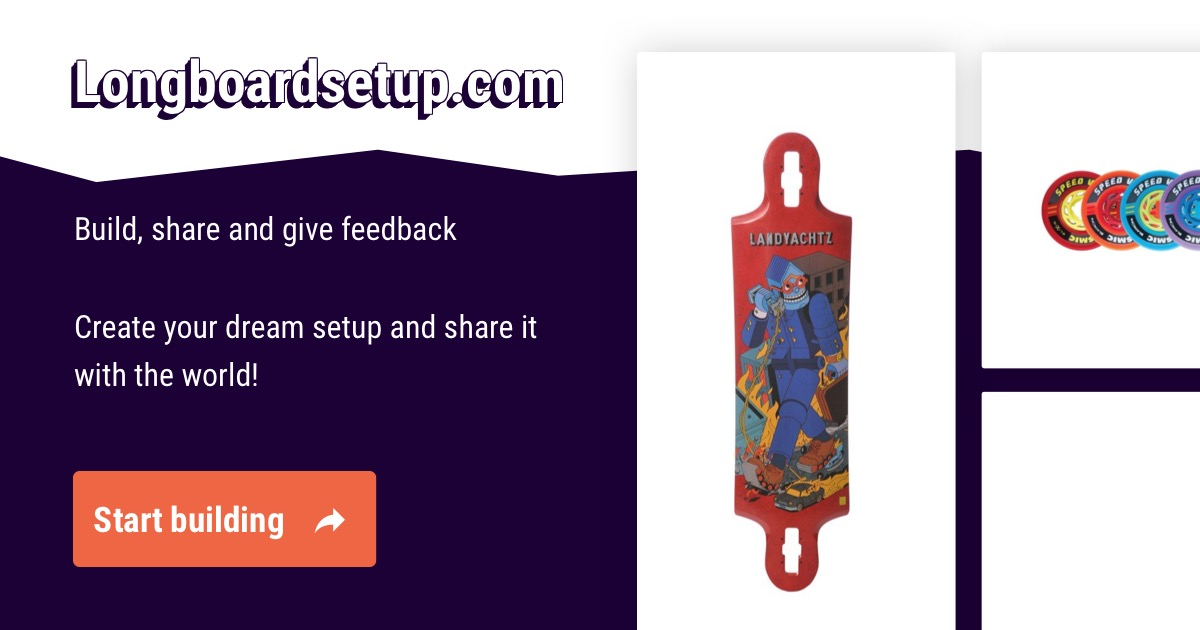
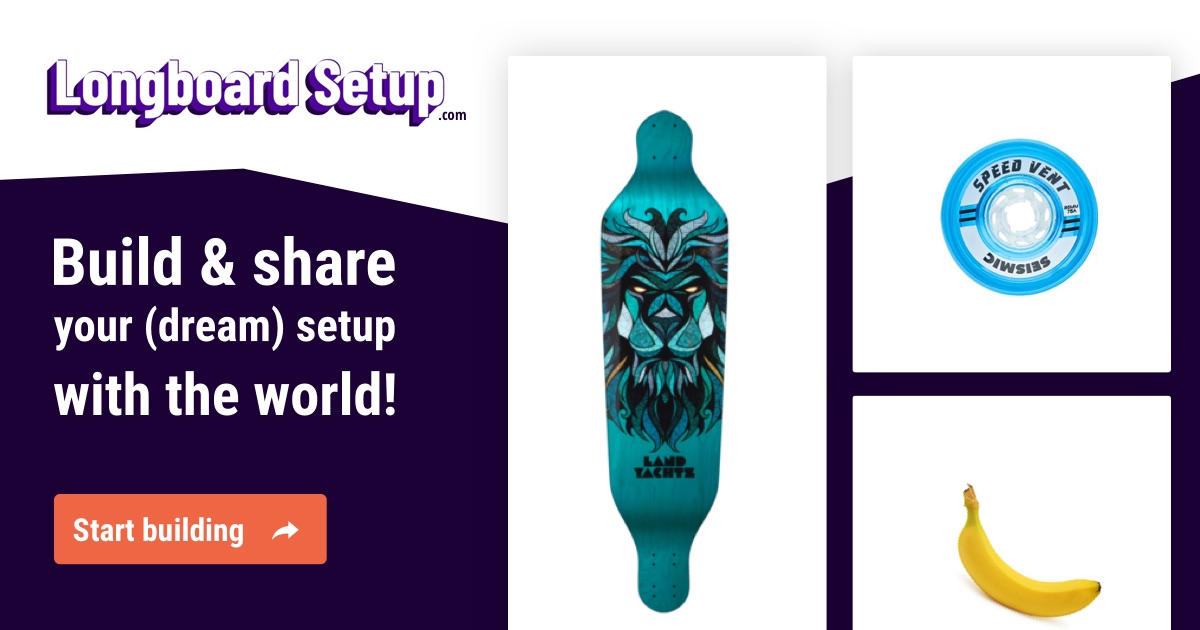
Fixed footer share styling

diff --git a/components/share/ShareFooter.vue b/components/share/ShareFooter.vue
@@ -1,23 +1,25 @@
 <template>
   <div class="component-ShareFooter">
-    <div class="alloy-share-intro">
-      <h3>I've build a setup what now?</h3>
-      <p>First you can be really proud of yourself! 👏</p>
-      <p>When you are ready, you can share your setup from here. This site is build for people who like some feedback on their setup, to improve it or just to show the world how awesome it is!</p>
-      <p>You can either just share the text list of your setup or you can share the direct link. With this link other can view and edit your setup and share their suggestions right back at you.</p>
-      <h4>Here are some nice communities to start with:</h4>
-      <ul>
-        <li v-for="(community, index) in communities" :key="index">
-          <a :href="community.url">
-            <span class="alloy-title">{{community.title}}</span>
-            <span>{{community.platform}}</span>
-            <span>{{community.members}}</span>
-          </a>
-        </li>
-      </ul>
-    </div>
-    <div class="alloy-cards" id="share-container">
-      <Share/>
+    <div class="inner">
+      <div class="alloy-share-intro">
+        <h3>I've build a setup what now?</h3>
+        <p>First you can be really proud of yourself! 👏</p>
+        <p>When you are ready, you can share your setup from here. This site is build for people who like some feedback on their setup, to improve it or just to show the world how awesome it is!</p>
+        <p>You can either just share the text list of your setup or you can share the direct link. With this link other can view and edit your setup and share their suggestions right back at you.</p>
+        <h4>Here are some awesome communities to start with</h4>
+        <ul>
+          <li v-for="(community, index) in communities" :key="index">
+            <a :href="community.url">
+              <span class="alloy-title">{{community.title}}</span>
+              <span>{{community.platform}}</span>
+              <span>{{community.members}}</span>
+            </a>
+          </li>
+        </ul>
+      </div>
+      <div class="alloy-cards" id="share-container">
+        <Share/>
+      </div>
     </div>
   </div>
 </template>
@@ -41,24 +43,31 @@ export default {
 <style lang="scss" scoped>
 @import "~/assets/css/common/_variables.scss";
 .component-ShareFooter {
-  padding-top: $base-margin * 2;
-  display: flex;
-  flex-direction: column;
-  @include media-breakpoint-up(lg) {
-    flex-direction: row;
-    width: 130%;
-    transform: translateX(-15%);
-    > * {
-      flex-grow: 1;
-      width: 50%;
+  background-color: $brand-light;
+  > .inner {
+    max-width: 1000px;
+    margin-left: auto;
+    margin-right: auto;
+    display: flex;
+    padding-top: $base-margin * 2;
+    padding-bottom: $base-margin * 6;
+    flex-direction: column;
+    @include media-breakpoint-up(lg) {
+      flex-direction: row;
+      // width: 130%;
+      // transform: translateX(-15%);
+      > * {
+        flex-grow: 1;
+        width: 50%;
+      }
     }
   }
 }
 .alloy-share-intro {
   padding: $base-margin;
 
-  font-size: 16px;
-  color: $brand-light;
+  // font-size: 16px;
+  // color: $brand-light;
 }
 
 // .alloy-cards {
@@ -66,6 +75,7 @@ export default {
 //   grid-auto-rows: min-content;
 // }
 #share-container {
+  transform: translateY(-80px);
   // width: 500px;
   max-width: 100%;
   background-color: $brand-two;
@@ -76,6 +86,7 @@ export default {
   // }
   .btn {
     background-color: $brand-one-lighten;
+    border-color: $brand-one-lighten;
   }
 }
 ul {
@@ -83,7 +94,8 @@ ul {
   padding: 0;
   margin: 0;
   a {
-    background-color: $brand-light;
+    background-color: $brand-one-lighten;
+    color: $brand-light;
     display: block;
     padding: 5px 10px;
     border-radius: 5px;

diff --git a/pages/setup/index.vue b/pages/setup/index.vue
@@ -1,9 +1,11 @@
 <template>
-  <div class="alloy-page alloy-page--setup">
-    <SetupUI/>
-    <transition name="slide-in">
-      <ShareModal v-if="getShowShareModel"/>
-    </transition>
+  <div>
+    <div class="alloy-page alloy-page--setup">
+      <SetupUI/>
+      <transition name="slide-in">
+        <ShareModal v-if="getShowShareModel"/>
+      </transition>
+    </div>
     <ShareFooter/>
   </div>
 </template>

diff --git a/components/share/Share.vue b/components/share/Share.vue
@@ -31,7 +31,7 @@
       </ul>
       <input type="text" :value="fullURL" ref="fullURLstring">
       <div class="centered">
-        <button class="btn btn--alt" @click="copyURL">Copy link!</button>
+        <button class="btn btn--large btn--alt" @click="copyURL">Copy link!</button>
       </div>
       <Social/>
     </div>

diff --git a/assets/css/common/_footer.scss b/assets/css/common/_footer.scss
@@ -24,6 +24,12 @@ footer {
   #share-container {
     .btn {
       background-color: $brand-two-lighten;
+      border-color: $brand-two-lighten;
+
+      &:hover {
+        background-color: $brand-one-lighten;
+        border-color: $brand-one-lighten;
+      }
     }
   }
 }
